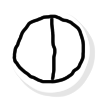
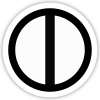
design: Change note assets and note background size

diff --git a/game/src/game/game_player/draw_gameplay_ui.rs b/game/src/game/game_player/draw_gameplay_ui.rs
@@ -69,7 +69,7 @@ fn load_accuracy_textures(
 
 /// size of note
 fn get_note_size() -> (u32, u32) {
-    (100, 100)
+    (80, 80)
 }
 
 /// renders game play ui with notes
@@ -89,7 +89,8 @@ pub fn draw_gameplay_ui(
     let note_height = get_note_size().1;
 
     // draw background where the note moves
-    let background_height = note_height + 20;
+    let background_padding = 15;
+    let background_height = note_height + background_padding * 2;
     let background_y = canvas.viewport().height() as i32 - 80 - (background_height as i32);
     canvas.set_draw_color(Color::RGB(200, 200, 200));
     canvas
@@ -97,7 +98,7 @@ pub fn draw_gameplay_ui(
             0,
             background_y,
             canvas.viewport().width(),
-            note_height + 20,
+            note_height + background_padding * 2,
         ))
         .unwrap();
 
@@ -123,7 +124,7 @@ pub fn draw_gameplay_ui(
 
     // draw judgement line
     let judgement_line_xpos = canvas.viewport().width() as i32 - note_width as i32 - 20;
-    let judgeline_line_ypos = background_y + 10;
+    let judgeline_line_ypos = background_y + background_padding as i32;
     canvas
         .copy(
             &judgement_line_texture,
